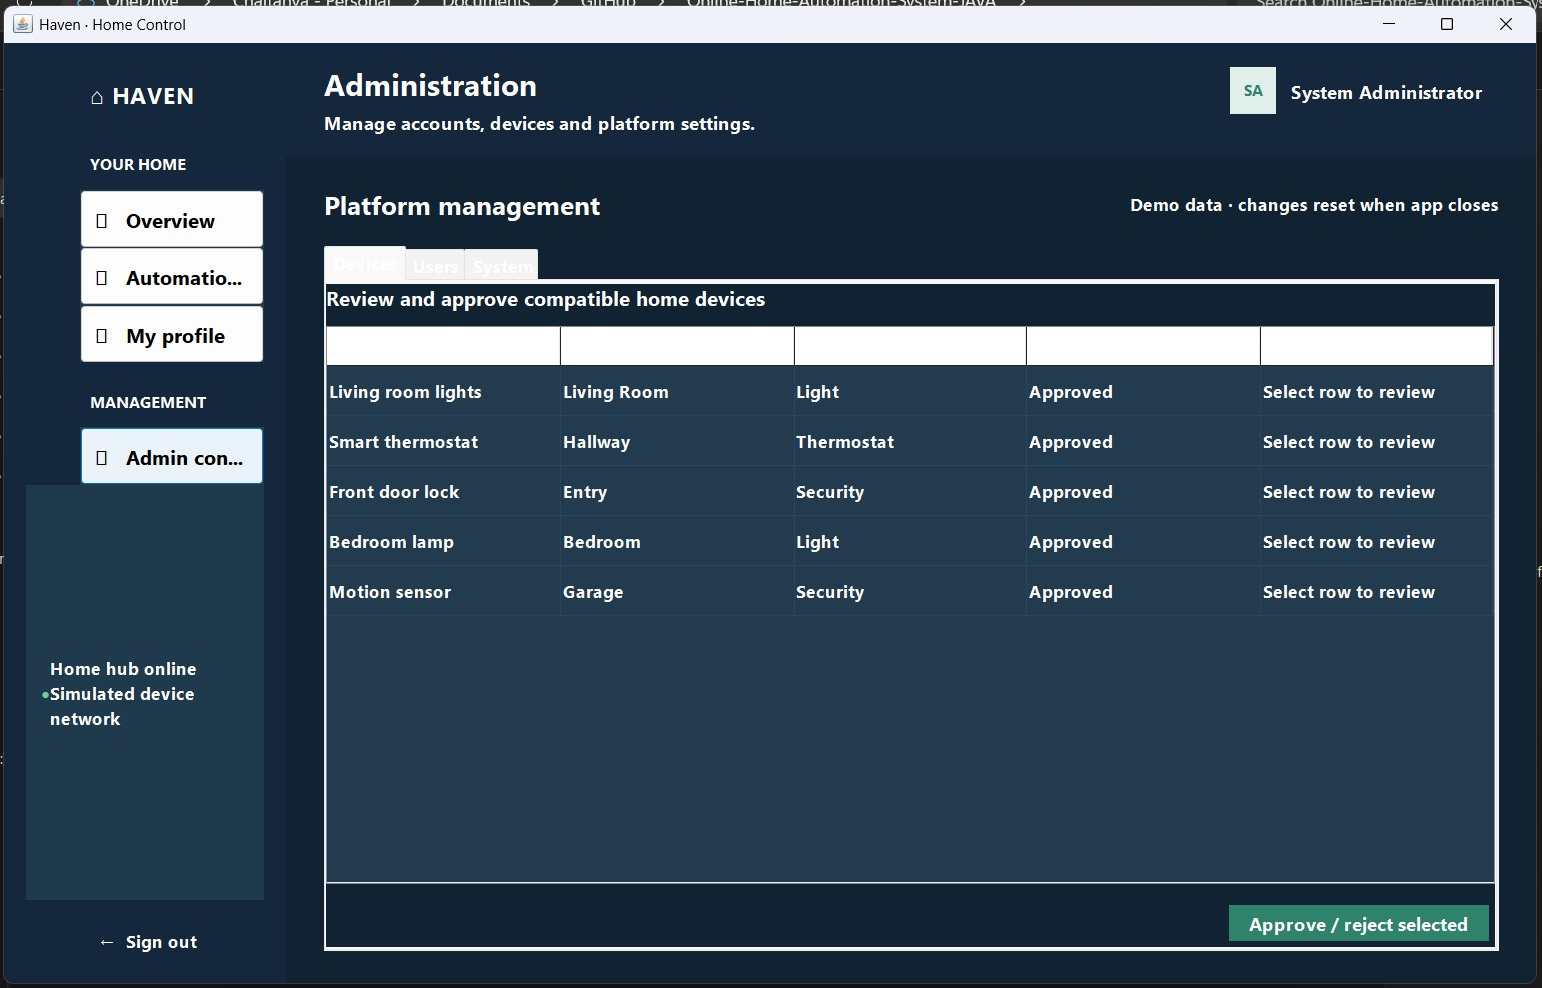
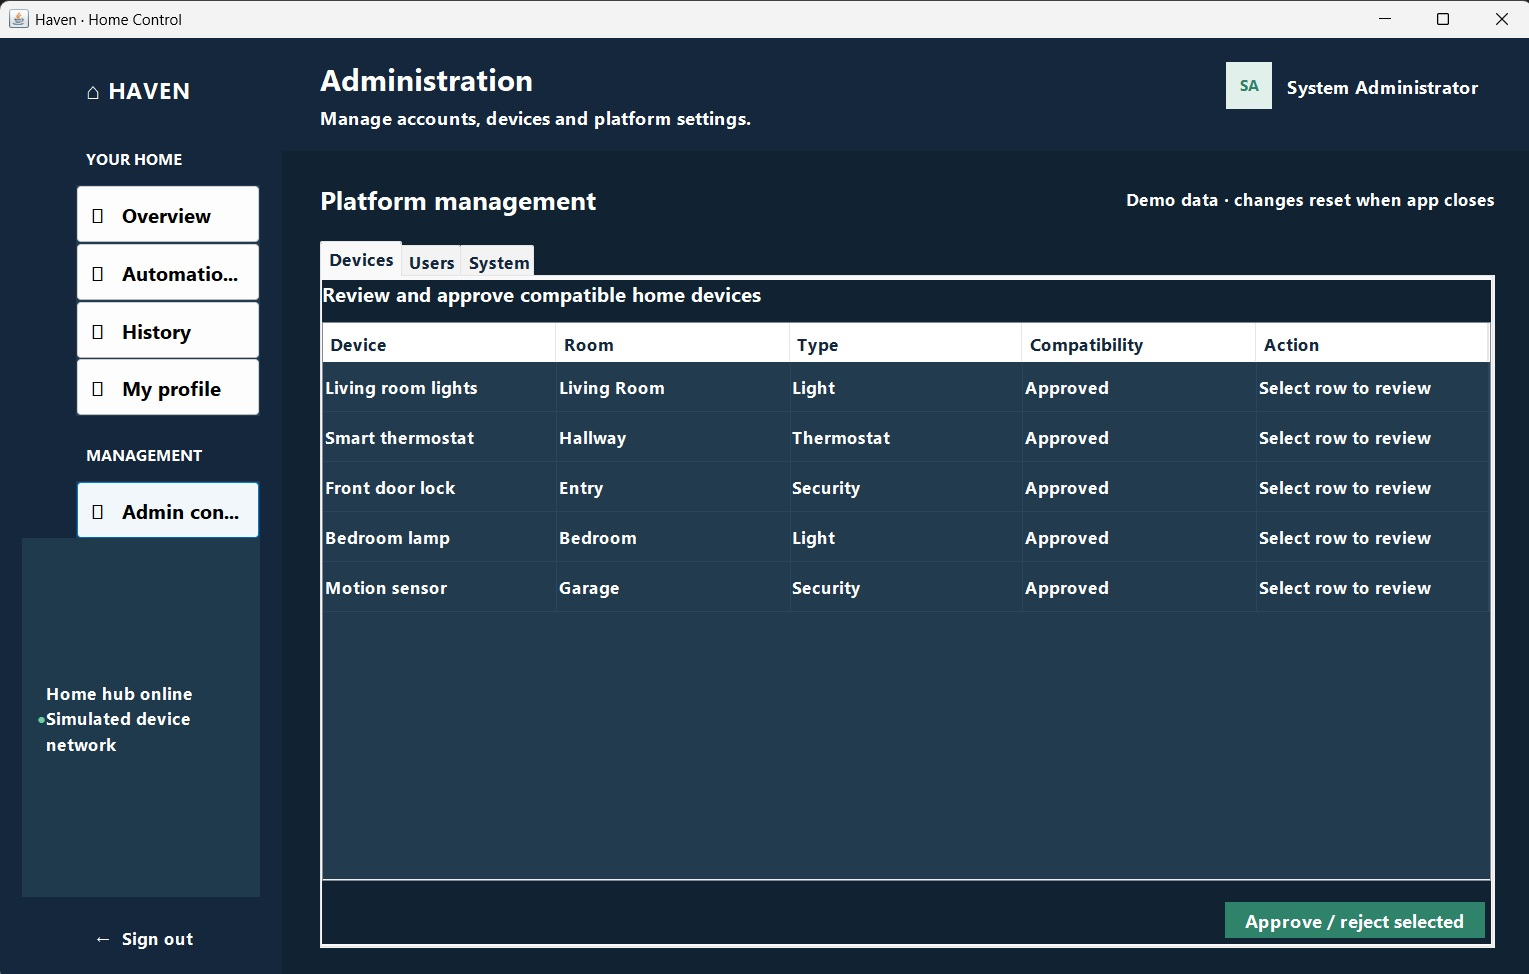
Improved admin text visibility, updated screenshots and added web version details

diff --git a/README.md b/README.md
@@ -1,221 +1,175 @@
-# Online Home Automation Control Platform
+# Haven — Online Home Automation Platform
 
-Haven includes a Java Swing desktop app and a browser-based Java Servlet app for managing a simulated smart home. Homeowners can control devices, create automation routines, and monitor home conditions. Administrators can manage users, device compatibility, and system settings. Both versions use the same Java domain classes and support SQLite persistence.
+Haven is a Java project for controlling a simulated smart home. It has two ways to use it: a Swing desktop app and a browser app built with Java Servlets. I built it to practise Java, JDBC, and role-based interfaces while making a project that is easy to demonstrate.
 
-> Device commands and environment readings are simulated. This classroom project does not connect to physical home devices.
+The devices and sensor readings are simulated. Nothing here connects to real locks, lights, or thermostats.
 
-## Features
+## What you can do
 
-- Login for Homeowner and Administrator roles, plus homeowner account creation.
-- Profile-based password changes require the current password and confirmation of the new password.
-- Passwords are stored as salted PBKDF2 hashes in the app's repositories.
-- Homeowner overview for device status, room filtering, security state, and temperature alerts.
-- Simulated on/off controls and brightness/thermostat adjustment.
-- Automation routines with editable enable/disable status.
-- A **Run now** control for enabled on/off routines. Actions use the exact format `Turn on [device name]` or `Turn off [device name]`.
-- A **History** page with recent device and admin actions, a temperature chart, and clear alert/within-range status.
-- Profile editing for account name and email.
-- Administrator user creation, editing, role assignment, and removal, with safeguards for the active and final administrator.
-- Device compatibility approval and system settings.
-- A background environment monitor, generic repository interface, synchronized operations, and JDBC SQLite persistence.
-- A separate, responsive Servlet web application with role-based pages and session sign-in.
+As a **Homeowner**, you can:
+- Check temperature, security status, and connected devices.
+- Turn devices on or off, and adjust supported lights and thermostats.
+- Create, enable, pause, and manually run automation routines.
+- Review recent activity and a chart of simulated temperature readings.
+- Update your profile and password.
 
-The activity list is an in-memory history of up to 100 recent events, and the temperature chart keeps up to 24 simulated readings for the current run. Both reset when the app restarts.
-Routine conditions are descriptive in this classroom demo; they are not evaluated against a clock or physical sensor. **Run now** manually runs the supported on/off action.
+As an **Admin**, you can:
+- Create and manage user accounts and roles.
+- Review device compatibility requests.
+- Update system settings and review system activity.
+
+Both versions share the Java domain and repository code. The desktop demo can run in memory; the persistent desktop and web versions use SQLite through JDBC. Passwords are stored as salted PBKDF2 hashes.
+
+A couple of demo limits: activity history holds up to 100 events and temperature history up to 24 readings for the current run. These histories reset when the app restarts. Routine conditions are descriptions for this demo; they are not automatically evaluated. **Run now** manually performs the routine's supported on/off action.
 
 ## Requirements
 
-- JDK 21 or later.
-- For a quick in-memory demo: the JDK only.
-- For SQLite persistence and the packaged JAR: Maven 3.9 or later and internet access for the first dependency download.
+- JDK 21 or newer.
+- Maven 3.9 or newer for the web app and SQLite/JAR builds.
+- Internet access the first time Maven downloads dependencies.
 
-## Run the in-memory demo
+## Try the desktop app
 
-Open PowerShell in this project folder and run:
+Open PowerShell in the project folder, then run:
 
 ```powershell
 Set-ExecutionPolicy -Scope Process -ExecutionPolicy Bypass
 .\run-demo.ps1
 ```
 
-The policy change applies only to that PowerShell window. The app compiles from source and launches with demo data. Demo-mode changes are cleared when the app closes.
+This starts the in-memory demo, so changes made in that run are cleared when you close it. The policy setting only applies to the current PowerShell window.
 
-If PowerShell blocks the script, run `Set-ExecutionPolicy -Scope Process -ExecutionPolicy Bypass` in that window before launching it.
-
-### First-time walkthrough
-
-1. Sign in with one of the demo accounts below, or choose **Create a homeowner account** to register.
-2. A homeowner can use **Overview** to check temperature, security, and connected devices. Use the device controls to switch a device on or off; **Adjust** is available for supported lights and thermostats.
-3. Open **Automations** to create a routine and choose its condition and action. To run it immediately, use an action such as `Turn off Bedroom lamp`, then select **Run now**.
-4. Open **History** to review device commands and account changes. The temperature chart fills as simulated readings arrive every five seconds.
-5. Open **My profile** to edit account details or change the password. Password changes ask for the current password and confirmation of the new one.
-6. Sign in as the administrator to open **Admin console**. Review the **Users** and **System** tabs, then open **History** to see recorded admin actions.
-
-### Short presentation walkthrough
-
-1. Start the desktop demo and sign in as the homeowner.
-2. Switch a device, then open **History** to show the recorded action.
-3. Open **Automations** and select **Run now** on **Good night**. The sample action turns off Living room lights.
-4. Sign out and sign in as the administrator. Open **Admin console → Users** and **Admin console → System** to show account management and temperature settings.
-5. Save a home display name or temperature-limit change, then open **History** to show the admin action.
-6. Explain that devices and readings are simulated and that the Java Servlet version provides the browser interface.
-
-The application displays confirmation or validation messages when an action succeeds or needs attention. Device behavior and environment values are simulated.
-
-### Demo accounts
+### Demo sign-ins
 
 | Role | Email | Password |
-|---|---|---|
+| --- | --- | --- |
 | Homeowner | `alex@example.com` | `Home123!` |
-| Administrator | `admin@haven.local` | `Admin123!` |
+| Admin | `admin@haven.local` | `Admin123!` |
 
-Use **Create a homeowner account** to register another homeowner. Public registration cannot create administrator accounts.
+You can also register a homeowner account from the sign-in screen. Public registration does not allow creating an Admin account.
 
-## Run with persistent SQLite storage
+### A quick desktop walkthrough
 
-From the project folder, build the runnable JAR:
+1. Sign in as the homeowner and try a device control.
+2. Open **Automations**, then use **Run now** on an enabled routine.
+3. Visit **History** to see the action and the simulated temperature chart.
+4. Sign out and sign in as Admin. Open the Admin console to review users and settings.
 
-```powershell
-mvn clean package
-```
+## Try the browser app
 
-Then set the database URL and launch the JAR:
+The web app lives in `web/`. It uses Servlets for sign-in, session handling, role checks, homeowner controls, and Admin pages. A security filter protects role-specific routes and checks submitted forms. Jetty runs the app locally during development.
 
-```powershell
-$env:HOME_AUTOMATION_DB = 'jdbc:sqlite:home-automation.db'
-java -jar target/home-control-platform-1.0.0.jar
-```
-
-The app creates the database tables and sample records on first launch. Users, devices, automation routines, and system settings are saved in the SQLite database. Environment readings are simulated for the current app session.
-
-To return to in-memory demo mode, close the app and open a new PowerShell window without setting `HOME_AUTOMATION_DB`.
-
-## Run the web version
-
-The Servlet-based web app is in the `web/` folder. It reuses the Java models, password hashing, and JDBC repository from the desktop project.
-
-Requirements: JDK 21 or later, Maven 3.9 or later, and internet access for the first dependency download.
-
-In PowerShell, from the project folder, run:
+From the project folder, run:
 
 ```powershell
 cd web
 .\run-web.ps1
 ```
 
-Or start it directly with Maven:
+Keep that PowerShell window open, then visit [http://localhost:8080](http://localhost:8080) in your browser. Sign in with either demo account above. Press **Ctrl+C** in the PowerShell window to stop the server.
 
-```powershell
-cd web
-mvn jetty:run
-```
-
-When startup completes, open [http://localhost:8080](http://localhost:8080). Sign in with the demo accounts above, or create a homeowner account. The web version uses a persistent SQLite database named `home-automation-web.db` in the current working directory by default. To select another JDBC URL before starting, set `HOME_AUTOMATION_DB` in PowerShell:
+The web app saves data to `home-automation-web.db` in its working directory by default. To set the SQLite URL yourself before startup:
 
 ```powershell
 $env:HOME_AUTOMATION_DB = 'jdbc:sqlite:home-automation-web.db'
+.\run-web.ps1
 ```
 
-To build a WAR for a Servlet 6 compatible server such as Tomcat 10.1 or later:
+To build the deployable WAR instead of starting Jetty:
 
 ```powershell
 mvn package
 ```
 
-The generated file is `web/target/haven-web.war`.
+The WAR is created at `web/target/haven-web.war` and requires a Servlet 6 compatible server, such as Tomcat 10.1 or later.
 
-## Run the project checks
+### What the web screenshots show
 
-The dependency-light checks cover on-demand automation, invalid automation input, activity-history limits, temperature status, HTML escaping, and homeowner denial from admin routes. From the project folder, run:
+These are screenshots captured from the running browser version. Together they show the Admin dashboard and two working Admin tasks:
+
+- **Overview:** account and device totals, home status, temperature, and navigation to the management pages.
+- **Users:** existing accounts and roles, plus the form for adding an account and the available account actions.
+- **Settings:** editable home-wide settings, including the display name and temperature alert limit.
+
+The screenshots document the pages and visible results of the web application. The user and settings pages demonstrate that Admin data can be viewed and changed through the browser interface; the screenshots are visual evidence, while the feature checks below exercise selected behavior in code.
+
+<img src="screenshots/readme/web-admin-overview.jpg" alt="Haven web Admin overview with home and system status" width="900">
+
+<img src="screenshots/readme/web-admin-users.jpg" alt="Haven web Admin user list and account management form" width="900">
+
+<img src="screenshots/readme/web-admin-settings.jpg" alt="Haven web Admin system settings form" width="900">
+
+## Data and project checks
+
+For a persistent desktop build, open PowerShell in the project folder and run:
+
+```powershell
+mvn clean package
+$env:HOME_AUTOMATION_DB = 'jdbc:sqlite:home-automation.db'
+java -jar target/home-control-platform-1.0.0.jar
+```
+
+The first launch creates the database tables and sample records. The desktop in-memory demo does not use this database setting.
+
+To run the included feature checks, first build the web project once so Maven downloads the Servlet API. Then, from the project folder:
 
 ```powershell
 Set-ExecutionPolicy -Scope Process -ExecutionPolicy Bypass
 .\run-checks.ps1
 ```
 
-The script compiles the Java sources and runs both check classes. It uses the Jakarta Servlet API downloaded when the web project is built with Maven.
+The checks cover core automation and validation behavior, activity and temperature history, HTML escaping, and denying a homeowner access to Admin routes.
 
-## Rubric mapping
+## Screenshots of the desktop app
 
-- **OOP:** `SmartDevice` inheritance, concrete device types, `Switchable`, polymorphic status, and validation/SQL exceptions.
-- **Collections and generics:** typed lists and repository collections; thread-safe listener collection.
-- **Multithreading and synchronization:** background environment monitor and synchronized device/repository state.
-- **Database operations and JDBC:** `HomeRepository`, `InMemoryHomeRepository`, and `JdbcHomeRepository`.
-
-The project includes both a Java Swing desktop application and a separate Servlet-based web application. The web version demonstrates server-side Java, role-based servlet routes, session handling, and JDBC-backed data.
-
-### Updated rubric mapping
-
-- **Servlet implementation:** the browser version uses Java Servlets for sign-in, homeowner actions, administrator functions, and role-protected routes. Servlet code is in `web/src/main/java/edu/homeautomation/web/`; it is a companion web app, separate from the Swing desktop interface.
-- **Code quality and execution:** shared models and services, repository classes, input checks, user-facing error messages, and setup scripts support a modular build and run flow.
-- **Code quality and testing:** `run-checks.ps1` compiles the GUI and Servlet sources and runs checks for device automation, validation, temperature status, HTML escaping, and role access.
-- **Teamwork and collaboration:** use `TEAM-CONTRIBUTIONS.md` to record real feature ownership, reviews, and commit evidence. Replace its example rows before submitting.
-- **Innovation / extra effort:** the History page, simulated temperature chart, and on-demand automation make application behavior easier to demonstrate.
-
-## Screenshots
-
-The screenshots below show the application with its demo data. The copies in `screenshots/readme/` have a narrow border, and a small strip above the app window has been cropped from screenshots where it appeared. The original captures remain in `screenshots/`.
+The following screenshots show the Swing application. They are included alongside the three browser captures above so reviewers can see both interfaces.
 
 ### Sign-in
 
-<img src="screenshots/readme/sign-in.jpg" alt="Haven sign-in screen with homeowner account creation option" width="900">
+<img src="screenshots/readme/sign-in.jpg" alt="Haven desktop sign-in and homeowner registration entry point" width="900">
 
-### Homeowner dashboard and features
+### Homeowner screens
 
-**Overview and device controls**
+<img src="screenshots/readme/homeowner-overview.jpg" alt="Desktop homeowner overview with environment status and device controls" width="900">
 
-<img src="screenshots/readme/homeowner-overview.jpg" alt="Homeowner overview showing environment status and device controls" width="900">
+<img src="screenshots/readme/automations.jpg" alt="Desktop automation routines" width="900">
 
-**Automation routines**
+<img src="screenshots/readme/homeowner-profile.jpg" alt="Desktop homeowner profile and password update" width="900">
 
-<img src="screenshots/readme/automations.jpg" alt="Homeowner automation routines with conditions and actions" width="900">
+### Admin screens
 
-**Profile and password update**
+<img src="screenshots/readme/admin-overview.jpg" alt="Desktop Admin overview" width="900">
 
-<img src="screenshots/readme/homeowner-profile.jpg" alt="Homeowner profile and password update fields" width="900">
+<img src="screenshots/readme/admin-device-compatibility.jpg" alt="Desktop Admin device compatibility review" width="900">
 
-### Administrator dashboard and features
+<img src="screenshots/readme/admin-profile.jpg" alt="Desktop Admin profile" width="900">
 
-**System overview**
-
-<img src="screenshots/readme/admin-overview.jpg" alt="Administrator overview showing home environment and connected devices" width="900">
-
-**Device compatibility review**
-
-<img src="screenshots/readme/admin-device-compatibility.jpg" alt="Administrator device compatibility approval screen" width="900">
-
-**Administrator profile**
-
-<img src="screenshots/readme/admin-profile.jpg" alt="Administrator profile and password update fields" width="900">
-
-**Web version: user management**
-
-<img src="screenshots/readme/web-admin-users.jpg" alt="Haven web Admin user management screen" width="900">
-
-**Web version: system settings**
-
-<img src="screenshots/readme/web-admin-settings.jpg" alt="Haven web Admin system settings screen" width="900">
-
-## Project structure
+## How the project is organized
 
 ```text
 src/main/java/edu/homeautomation/
-  Main.java
-  model/                  Devices, users, routines, and environment readings
-  persistence/            Repository interface and demo/JDBC implementations
-  service/                Device control, environment monitor, password hashing
-  ui/                     Sign-in, registration, and role dashboards
+  model/          Users, devices, routines, and environment readings
+  persistence/    Repository interface and in-memory/JDBC implementations
+  service/        Device control, environment monitoring, password hashing
+  ui/             Swing sign-in and role dashboards
 src/main/resources/schema.sql
+src/test/java/    Core feature checks
 web/
-  pom.xml                  Servlet web-app build and Jetty run configuration
-  src/main/java/           Web servlets, access control, and shared HTML helpers
-  src/main/webapp/         Responsive pages, CSS, and Servlet configuration
-src/test/java/              Shared Java feature checks
-web/src/test/java/           Servlet access-control and HTML-safety checks
-run-checks.ps1               Compile and run project checks
-TEAM-CONTRIBUTIONS.md        Record actual team roles and contribution evidence
+  pom.xml
+  src/main/java/  Servlets, access control, and shared web helpers
+  src/main/webapp/ Pages, styles, and Servlet configuration
+  src/test/java/  Web feature checks
+screenshots/readme/  Screenshots embedded in this README
+run-demo.ps1
+run-checks.ps1
 ```
 
-## Classroom demo note
+## Java concepts shown
 
-The seeded accounts are for demonstration only. Replace them with a proper account provisioning and recovery flow before using the software outside a classroom setting.
+- **OOP:** device inheritance, polymorphic behavior, interfaces, and exception handling.
+- **Collections and generics:** typed lists and repository collections.
+- **Threads and synchronization:** a background environment monitor and synchronized shared state.
+- **Database design:** repository classes separate storage operations from the interface.
+- **JDBC:** SQLite persistence for users, devices, routines, and settings.
+- **Servlets:** role-aware browser routes, sessions, form handling, and web integration.
+
